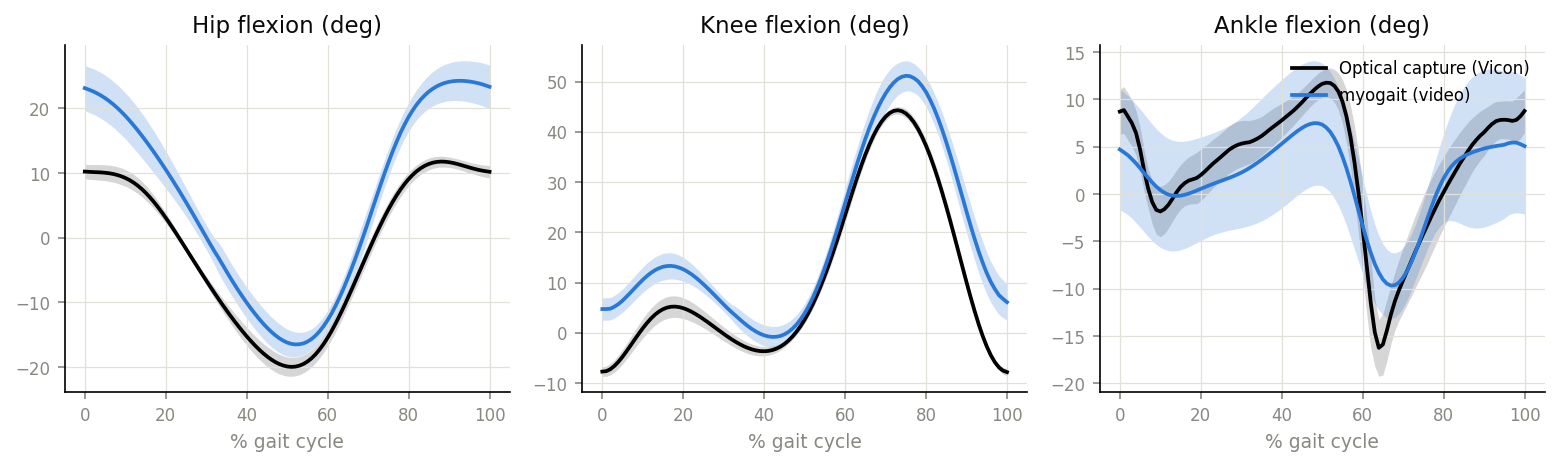
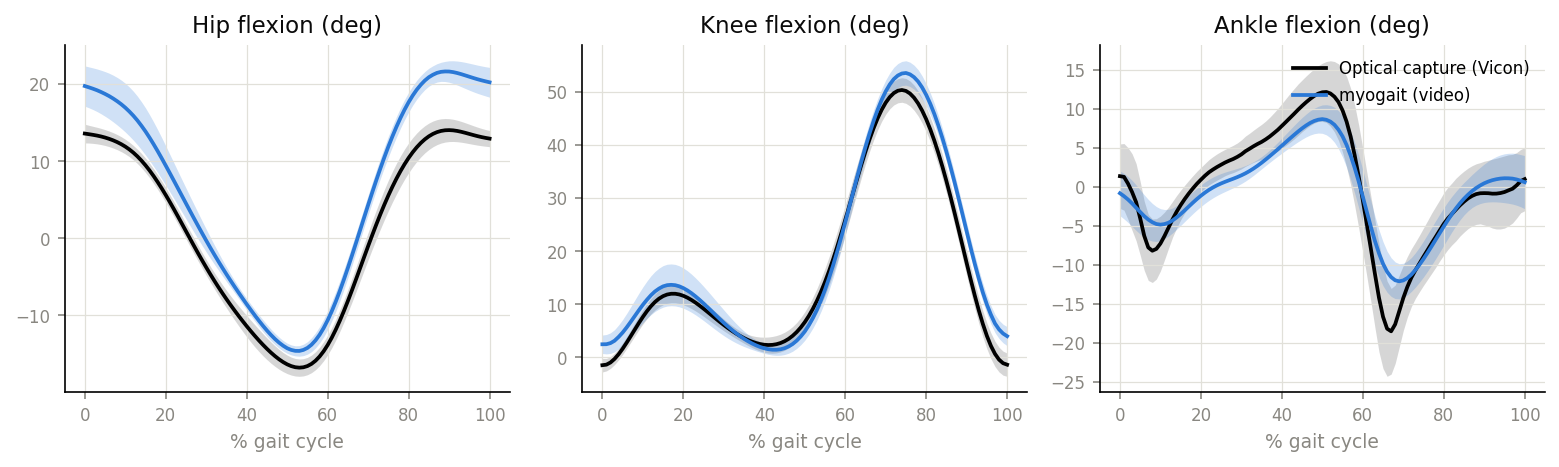
release: v0.8.1 — technical release (hardening + docs)
- README validation figure regenerated from the primary cohort
  (three healthy adults pooled, ~60 curves per joint, fixed 60 fps
  lateral camera) — cleaner superposition than the single-subject
  replication figure it replaces.
- femur_ratio documented in all three public docstrings; remaining
  hard-coded 24.5% mentions now reference FEMUR_HEIGHT_RATIO.
- CHANGELOG entry for 0.8.1 (available_models, exceptions hierarchy,
  cycle quality gates, opt-in XPU upgrade, GPU teardown, mediapipe CI
  job, femur_ratio, docs pass).
- Version bump 0.8.0 -> 0.8.1.

1298 tests green, ruff clean.

diff --git a/myogait/analysis.py b/myogait/analysis.py
@@ -125,6 +125,12 @@ def analyze_gait(
         Subject femur length in millimetres.
     foot_mm : float, optional
         Subject foot length (heel → longest toe) in millimetres.
+    femur_ratio : float, optional
+        Femur-length-to-stature ratio used with ``height_m`` when no
+        measured femur is available.  Defaults to the healthy-adult
+        :data:`FEMUR_HEIGHT_RATIO` (0.245, Winter 2009); override for
+        populations where that average does not hold (pediatric,
+        contractures, bone deformity).
 
     Note
     ----
@@ -637,7 +643,8 @@ def _estimate_pixel_to_meter_scale(
     - ``femur_mm`` + ``foot_mm``: average of both independent scales.
     - ``femur_mm`` alone: use femur length directly.
     - ``foot_mm`` alone: use foot length (heel → LEFT_FOOT_INDEX).
-    - ``height_m`` alone: femur ≈ 24.5 % of height (fallback).
+    - ``height_m`` alone: femur ≈ ``femur_ratio`` × height (default
+      :data:`FEMUR_HEIGHT_RATIO` = 0.245, Winter 2009).
     - Nothing → returns 1.0 (image-normalised output).
     """
     def _median_femur_px() -> Optional[float]:
@@ -704,7 +711,8 @@ def step_length(
        directly (issue #40 quick-fix).
     3. **Foot only** (``foot_mm``): use the measured foot length
        (heel → toe distance).
-    4. **Height** (``height_m``): derive femur as 24.5 % of height
+    4. **Height** (``height_m``): derive femur as ``femur_ratio`` ×
+       height (default :data:`FEMUR_HEIGHT_RATIO`)
        (fallback anthropometric estimate).
     5. None → output in image-normalised units.
 
@@ -720,6 +728,9 @@ def step_length(
         Subject femur length in millimetres.
     foot_mm : float, optional
         Subject foot length (heel → longest toe) in millimetres.
+    femur_ratio : float, optional
+        Femur/stature ratio for the ``height_m`` fallback (default
+        :data:`FEMUR_HEIGHT_RATIO`).
 
     Returns
     -------
@@ -843,6 +854,11 @@ def walking_speed(
         Output of ``segment_cycles()``.
     height_m : float, optional
         Subject height in meters.
+    femur_mm, foot_mm : float, optional
+        Measured segment lengths in millimetres (preferred references).
+    femur_ratio : float, optional
+        Femur/stature ratio for the ``height_m`` fallback (default
+        :data:`FEMUR_HEIGHT_RATIO`).
 
     Returns
     -------

diff --git a/myogait/__init__.py b/myogait/__init__.py
@@ -19,7 +19,7 @@ Full pipeline with cycle analysis::
 
 from importlib import import_module
 
-__version__ = "0.8.0"
+__version__ = "0.8.1"
 
 from .extract import extract, detect_sagittal_alignment, auto_crop_roi, select_person
 from .normalize import (

diff --git a/CHANGELOG.md b/CHANGELOG.md
@@ -3,6 +3,36 @@
 All notable changes to myogait are documented here. The project follows
 semantic versioning: breaking API changes only occur in major releases.
 
+## [0.8.1] — 2026-08-21
+
+Technical release: post-audit hardening and documentation pass.
+
+### Added
+- `available_models()` — non-destructive backend discovery via
+  `importlib.util.find_spec` (including secondary requirements), so a
+  UI can grey out unavailable backends without importing anything.
+- `myogait.exceptions` — dedicated error hierarchy (`MyogaitError`
+  root) that also inherits the historical builtins, so existing
+  `except ValueError` handlers keep working. Adopted at the
+  unreadable-video and missing-backend sites.
+- `segment_cycles(min_confidence=…, min_coherence=…)` — optional
+  per-cycle quality gates on landmark confidence / frame coherence;
+  rejections reported in `summary["n_rejected_quality"]`.
+- `femur_ratio` parameter on `analyze_gait`, `step_length` and
+  `walking_speed` (defaults to the documented `FEMUR_HEIGHT_RATIO`).
+- CI: `backend-mediapipe` job running a real end-to-end extraction,
+  so the badge finally covers an actual pose backend.
+
+### Changed
+- `ensure_xpu_torch()` is strictly opt-in: by default it only warns
+  with the manual install command; the pip-reinstall + process-restart
+  path requires `auto_upgrade=True` or `MYOGAIT_AUTO_XPU=1`.
+- GPU extractors explicitly release CUDA/XPU cached memory in
+  `teardown()` (`BasePoseExtractor.release_gpu_memory()`).
+- README: validation figure (video vs optical capture, three healthy
+  adults) and feature list regrouped by theme; tutorial trimmed of
+  deprecated workflows.
+
 ## [0.8.0] — 2026-08-21
 
 The accuracy & validation release. Every change below came out of a

diff --git a/README.md b/README.md
@@ -41,10 +41,10 @@ Every step remains available individually; see the
 ![Video vs optical motion capture — mean gait cycles](docs/images/validation_curves.png)
 
 *Sagittal joint angles over the gait cycle: myogait from a single lateral
-video (blue) vs marker-based optical capture (black), mean ± SD over 19
-paired trials of a healthy adult. Waveforms and peak timings superimpose;
-the visible hip offset is a stable zero-definition difference,
-calibratable per site.*
+video (blue) vs marker-based optical capture (black), mean ± SD pooled
+over three healthy adults (~30 paired trials each side). Waveforms and
+peak timings superimpose across all three joints; the small hip offset is
+a stable zero-definition difference, calibratable per site.*
 
 myogait's sagittal kinematics have been validated against optical
 motion capture (Vicon, marker-based) on healthy adults across **two
